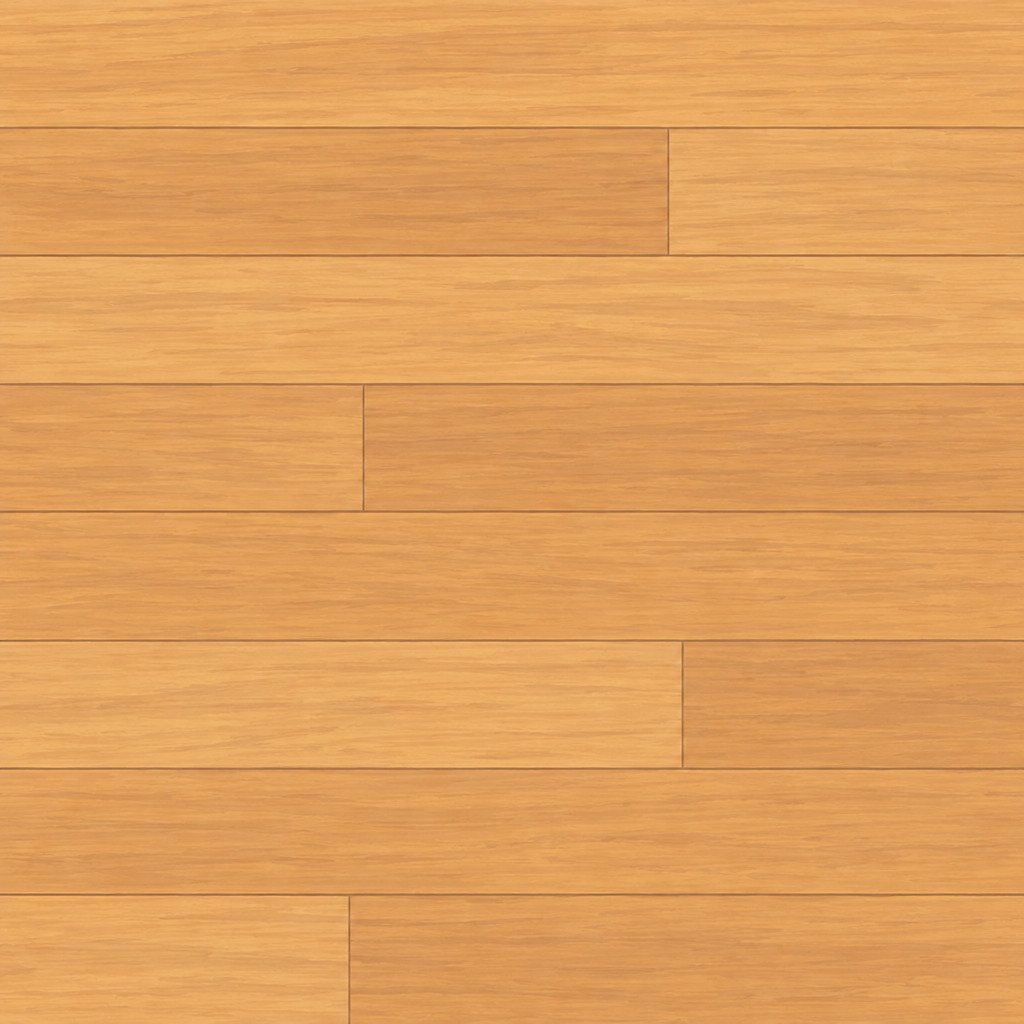
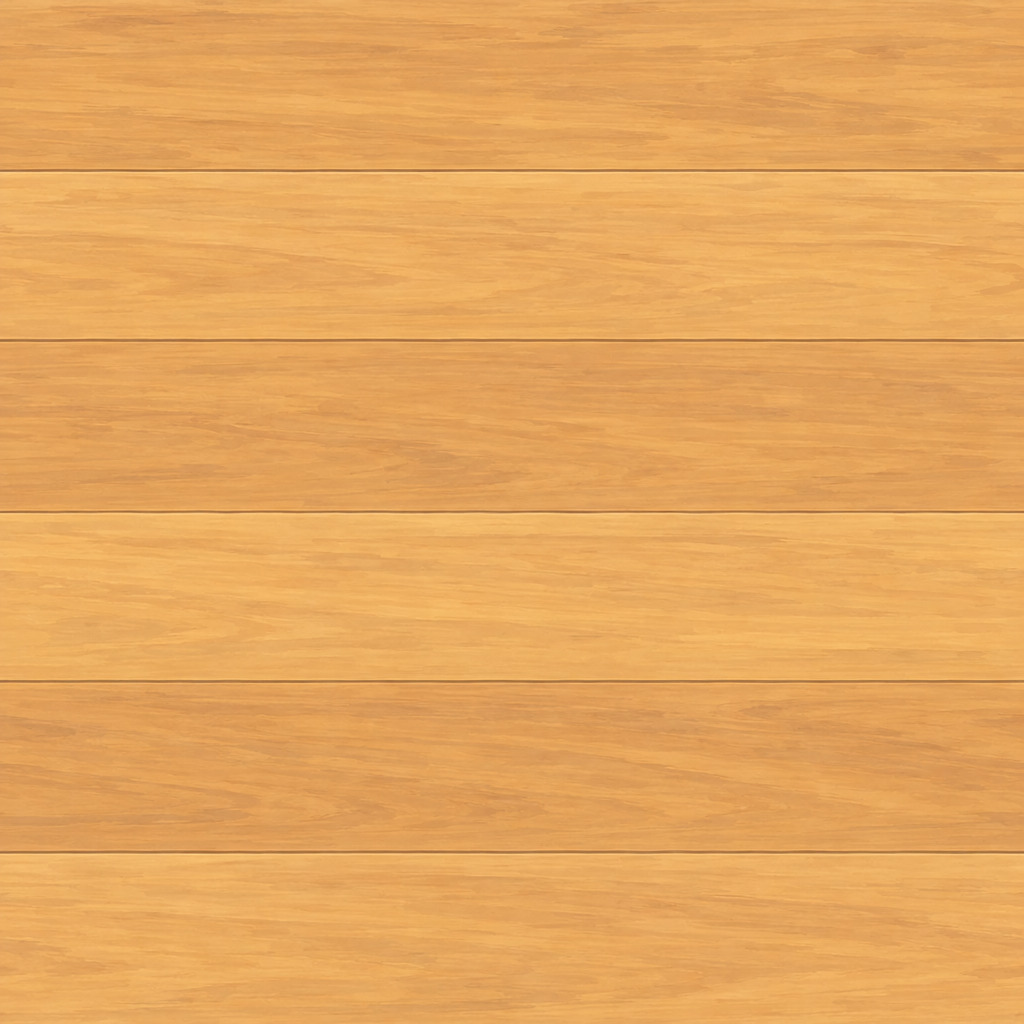
Crater Park editor: viaduct relief after the concept, calmer planks
Piers stand proud of the arcade on rounded stages with plinths and
ledges, arches carry stone rings, a cornice runs under every ramp edge,
and boulders gather round the pier feet and along the low walls, so the
supports read as built stone instead of lofted slabs. The ramp planks are
repainted calmer (faint seams, unbroken boards) and the plank and stone
paintings keep their own contrast.

diff --git a/games/yorimichi/world/regions/craterpark/v2/editor_supports.py b/games/yorimichi/world/regions/craterpark/v2/editor_supports.py
@@ -29,10 +29,22 @@ PIER_MIN, PIER_MAX = 4., 7.     # pier thickness along the piece
 BATTER = .05          # each pier side leans out this much per metre down to its foot
 BATTER_MAX = 6.       # metres: at most
 RING_MIN, RING_MAX = 1.6, 3.5   # stone kept above an arch's crown
-MIN_RISE = 2.5        # an opening lower than this is left solid
+MIN_RISE = 2.        # an opening lower than this is left solid
 OVER = 2.5            # metres kept clear above another piece running underneath
 TIER = 26.           # an opening taller than this gets a lower tier of arches (as an aqueduct's)
 TALL_BLOCK = 25.     # a stretch too short for a span but this tall gets one arch through it
+# the concept's relief (support-design-viaduct.jpg): piers standing proud of the faces, arch rings, a cornice under the
+# ramp, plinths and boulders at the feet
+ROCK = 'material_027'         # the volcano's restyled rock, for the boulders round the feet
+PROUD = .35           # the top of a pier stands this far out of the arcade's faces
+SETBACK = .3          # each ledge up a pier steps in this much (so its lower stages stand further out)
+CORNER = .8           # rounded pier corners (radius, m)
+PLINTH = .8           # a pier's plinth rises this far above the highest ground under it...
+PLINTH_OUT = .5       # ...and steps out this much round it
+CORNICE = 1.1         # the cornice band under the ramp: its height...
+OVERHANG = .45        # ...and how far it stands out of the faces (just under the ramp's edge)
+RING_DEPTH = 1.1      # the arch rings (archivolts): their depth round the opening...
+RING_PROUD = .2       # ...and how far they stand out of the faces
 
 
 class Ground:
@@ -139,6 +151,114 @@ def _outer_half(s):
         h, R = w['h'], max(w['R'], 1e-3)
         reach.append(R if h >= R else R * math.sin(math.acos(max(-1., 1 - h / R))))
     return s['w'] / 2 + max(reach) + s.get('deck', 0)
+
+
+def _rand(*key):
+    """Deterministic uniform [0, 1) from a position: the same park always gets the same stones."""
+    h = 2166136261
+    for k in key:
+        h = ((h ^ (int(round(k * 100)) & 0xffffffff)) * 16777619) & 0xffffffff
+    return ((h * 2654435761) & 0xffffffff) / 2 ** 32
+
+
+def _rings(b, material, rings, normals=None):
+    """Loft through closed cross-sections (each (k, 3)), with end caps: flat faces outward, or the given per-ring
+    vertex normals (each (k, 3)) on the sides for a smooth (rounded) surface."""
+    V, F, N = [], [], []
+    for i in range(len(rings) - 1):
+        A, B = rings[i], rings[i + 1]
+        mid = np.concatenate([A, B]).mean(0)
+        k = len(A)
+        for e in range(k):
+            q = np.array([A[e], A[(e + 1) % k], B[(e + 1) % k], B[e]])
+            n = np.cross(q[1] - q[0], q[2] - q[0]) + np.cross(q[2] - q[0], q[3] - q[0])
+            size = np.linalg.norm(n)
+            if size < 1e-6:
+                continue
+            n = n / size
+            if n @ (q.mean(0) - mid) < 0:
+                n = -n
+            o = len(V)
+            V.extend(q)
+            if normals is not None:
+                N.extend([normals[i][e], normals[i][(e + 1) % k], normals[i + 1][(e + 1) % k], normals[i + 1][e]])
+            else:
+                N.extend([n] * 4)
+            F.extend([(o, o + 1, o + 2), (o, o + 2, o + 3)])
+    for R, other in ((rings[0], rings[1]), (rings[-1], rings[-2])):
+        out = R.mean(0) - other.mean(0)
+        size = np.linalg.norm(out)
+        if size < 1e-9:
+            continue
+        o = len(V)
+        V.extend([R.mean(0)] + list(R))
+        N.extend([out / size] * (len(R) + 1))
+        F.extend([(o, o + 1 + e, o + 1 + (e + 1) % len(R)) for e in range(len(R))])
+    if F:
+        b.add(material, (np.array(V, 'f8'), np.array(F, 'i8'), np.array(N, 'f8')))
+
+
+def _rounded(c, fwd, acr, a, w, y, r=CORNER, seg=3):
+    """A rounded rectangle at height y, `a` long (half, along fwd) and `w` wide (half, along acr): points and their
+    outward horizontal normals."""
+    r = min(r, a * .9, w * .9)
+    pts, nrm = [], []
+    for su, sv, a0 in ((1, 1, 0.), (-1, 1, .5 * np.pi), (-1, -1, np.pi), (1, -1, 1.5 * np.pi)):
+        for k in range(seg + 1):
+            ang = a0 + .5 * np.pi * k / seg
+            du, dv = math.cos(ang), math.sin(ang)
+            u, v = su * (a - r) + r * du, sv * (w - r) + r * dv
+            pts.append((c[0] + u * fwd[0] + v * acr[0], y, c[1] + u * fwd[1] + v * acr[1]))
+            nrm.append((du * fwd[0] + dv * acr[0], 0., du * fwd[1] + dv * acr[1]))
+    return np.array(pts), np.array(nrm)
+
+
+def _lean(s, y):
+    """The arcade's half width at height y in section s: its faces lean out BATTER per metre below the ramp."""
+    return s.half + min(BATTER * max(s.top - y, 0.), BATTER_MAX)
+
+
+_ICO = None
+
+
+def _boulder(b, plan, ground, x, z, r, seed):
+    """A half-buried, faceted boulder of radius r at (x, z); none where a piece lies within reach above the ground."""
+    global _ICO
+    g = float(ground(x, z))
+    who, y = plan.heights(x, z)
+    if len(y) and (y < g + 2.5 * r + 1.).any():
+        return 0
+    if _ICO is None:
+        t = (1 + 5 ** .5) / 2
+        P = np.array([(-1, t, 0), (1, t, 0), (-1, -t, 0), (1, -t, 0), (0, -1, t), (0, 1, t), (0, -1, -t), (0, 1, -t),
+                      (t, 0, -1), (t, 0, 1), (-t, 0, -1), (-t, 0, 1)], 'f8')
+        F = [(0, 11, 5), (0, 5, 1), (0, 1, 7), (0, 7, 10), (0, 10, 11), (1, 5, 9), (5, 11, 4), (11, 10, 2), (10, 7, 6),
+             (7, 1, 8), (3, 9, 4), (3, 4, 2), (3, 2, 6), (3, 6, 8), (3, 8, 9), (4, 9, 5), (2, 4, 11), (6, 2, 10),
+             (8, 6, 7), (9, 8, 1)]
+        P = list(P / np.linalg.norm(P[0]))
+        mids, F2 = {}, []
+        for a, bb, c in F:                                   # one subdivision: 80 faces
+            m = []
+            for i, j in ((a, bb), (bb, c), (c, a)):
+                key = (min(i, j), max(i, j))
+                if key not in mids:
+                    q = P[i] + P[j]
+                    P.append(q / np.linalg.norm(q))
+                    mids[key] = len(P) - 1
+                m.append(mids[key])
+            F2 += [(a, m[0], m[2]), (bb, m[1], m[0]), (c, m[2], m[1]), (m[0], m[1], m[2])]
+        _ICO = np.array(P), np.array(F2)
+    P, F = _ICO
+    bump = np.array([1 + .32 * (_rand(seed, i, 7.) - .5) for i in range(len(P))])
+    yaw = _rand(seed, 3.) * 2 * np.pi
+    S = P * bump[:, None] * [r * (1 + .3 * _rand(seed, 5.)), r * .62, r]
+    S = S @ np.array([[math.cos(yaw), 0, -math.sin(yaw)], [0, 1, 0], [math.sin(yaw), 0, math.cos(yaw)]])
+    S += [x, g - .3 * r, z]
+    T = S[F]
+    n = np.cross(T[:, 1] - T[:, 0], T[:, 2] - T[:, 0])
+    n /= np.linalg.norm(n, axis=1, keepdims=True) + 1e-12
+    b.add(ROCK, (T.reshape(-1, 3), np.arange(len(F) * 3).reshape(-1, 3), np.repeat(n, 3, axis=0)))
+    return 1
 
 
 def _samples(stations):
@@ -299,14 +419,102 @@ def _loft(b, rows):
         b.add(STONE, (np.array(V, 'f8'), np.array(F, 'i8'), np.array(N, 'f8')))
 
 
+def _at(S, ts, t):
+    """The arcade's frame at distance t along a stretch: centre (x, z), across (unit), the section nearest."""
+    i = int(np.clip(np.searchsorted(ts, t) - 1, 0, len(ts) - 2))
+    f = float(np.clip((t - ts[i]) / max(ts[i + 1] - ts[i], 1e-9), 0., 1.))
+    c = S[i].c * (1 - f) + S[i + 1].c * f
+    u = S[i].across * (1 - f) + S[i + 1].across * f
+    return c, u / np.linalg.norm(u), S[i if f < .5 else i + 1]
+
+
+def _pier(b, plan, ground, S, ts, a, c):
+    """A pier over samples a..c: rounded stages standing proud of the faces, stepping in at a ledge or two on the
+    way up to the cornice, on a plinth, with boulders round its foot. Returns the boulders placed."""
+    mid = (ts[a] + ts[c]) / 2
+    centre, acr, s = _at(S, ts, mid)
+    fwd = np.array([acr[1], -acr[0]])
+    half_len = max((ts[c] - ts[a]) / 2, 1.5)
+    top = min(min(S[j].top_l, S[j].top_r) for j in range(a, c + 1)) - CORNICE + .1
+    corners = [centre + u * fwd + v * acr for u in (-half_len, half_len) for v in (-s.half, s.half)]
+    g_hi = max(float(ground(*q)) for q in corners)
+    foot = min(float(ground(*q)) for q in corners) - SINK - 1.
+    base = g_hi + PLINTH
+    if top - base < 1.5:
+        return 0
+    height = top - base
+    stages = 1 + (height > 14.) + (height > 32.)
+    out = PROUD + (stages - 1) * SETBACK
+
+    def block(y0, y1, extra):
+        rings, normals = [], []
+        for y in (y0, y1):
+            along = half_len + .5 * BATTER * max(top - y, 0.) + extra
+            pts, nrm = _rounded(centre, fwd, acr, along, _lean(s, y) + extra, y)
+            rings.append(pts)
+            normals.append(nrm)
+        _rings(b, STONE, rings, normals)
+
+    block(foot, base, out + PLINTH_OUT)
+    for k in range(stages):
+        y0 = base + height * k / stages
+        y1 = base + height * (k + 1) / stages
+        block(y0 - (.05 if k else 0.), y1, out - k * SETBACK)
+    placed = 0
+    n = 3 + min(6, int(height / 8))
+    for k in range(n):
+        ang = 2 * np.pi * (k + _rand(mid, k, 1.)) / n
+        reach = np.array([(half_len + out + PLINTH_OUT) * math.cos(ang), (s.half + out + PLINTH_OUT) * math.sin(ang)])
+        reach *= 1.05 + .35 * _rand(mid, k, 2.)
+        q = centre + reach[0] * fwd + reach[1] * acr
+        r = min(.9 + .9 * _rand(mid, k, 3.) + .025 * height, 3.2)
+        placed += _boulder(b, plan, ground, q[0], q[1], r, mid * 7 + k)
+    return placed
+
+
+def _archivolt(b, S, ts, f0, f1, arc):
+    """The stone ring round an arch: RING_DEPTH deep round the intrados, standing RING_PROUD out of both faces."""
+    t = np.asarray(ts[f0:f1 + 1], 'f8')
+    y = np.asarray(arc, 'f8')
+    if len(t) < 4:
+        return
+    dt, dy = np.gradient(t), np.gradient(y)
+    norm = np.hypot(dt, dy)
+    nt, ny = -dy / norm, dt / norm
+    rings = []
+    for k in range(len(t)):
+        c_in, u_in, s = _at(S, ts, t[k])
+        c_out, u_out, _ = _at(S, ts, t[k] + RING_DEPTH * nt[k])
+        y_out = y[k] + RING_DEPTH * ny[k]
+        w_in, w_out = _lean(s, y[k]) + RING_PROUD, _lean(s, y_out) + RING_PROUD
+        rings.append(np.array([(c_in[0] - w_in * u_in[0], y[k], c_in[1] - w_in * u_in[1]),
+                               (c_in[0] + w_in * u_in[0], y[k], c_in[1] + w_in * u_in[1]),
+                               (c_out[0] + w_out * u_out[0], y_out, c_out[1] + w_out * u_out[1]),
+                               (c_out[0] - w_out * u_out[0], y_out, c_out[1] - w_out * u_out[1])]))
+    _rings(b, STONE, rings)
+
+
+def _cornice(b, S):
+    """The cornice band along the top of a stretch: it stands OVERHANG out of the faces, a bevel below it."""
+    rings = []
+    for s in S:
+        (x, z), u = s.c, s.across
+        yb = s.top - CORNICE
+        wall, out = _lean(s, yb) - .05, s.half + OVERHANG
+        prof = [(-wall, yb), (-out, yb + .45 * CORNICE), (-out, s.top_l), (out, s.top_r), (out, yb + .45 * CORNICE),
+                (wall, yb)]
+        rings.append(np.array([(x + v * u[0], y, z + v * u[1]) for v, y in prof]))
+    _rings(b, STONE, rings)
+
+
 def arcade(b, plan, ground, piece, stations):
-    """The viaduct under one piece: (piers, arches, metres of arcade)."""
+    """The viaduct under one piece: (piers, arches, metres of arcade, boulders)."""
     got = _samples(stations)
     if got is None:
-        return 0, 0, 0.
+        return 0, 0, 0., 0
     t, x, z, h, half = got
     secs = [Section(plan, ground, piece, *a) for a in zip(x, z, h, half)]
-    piers = arches = 0
+    piers = arches = rocks = 0
     metres = 0.
     k, n = 0, len(secs)
     while k < n:                                              # stretches of consecutive good sections
@@ -330,9 +538,11 @@ def arcade(b, plan, ground, piece, stations):
                 if arc is not None:
                     bots[(f0, f1)] = arc
                     arches += 1
+                    _archivolt(b, S, ts, f0, f1, arc)
                     for band, lower in _tiers(S, ts, f0, f1, arc):
                         _loft(b, [(S[j], lower[j - f0], band[j - f0], band[j - f0])
                                   for j in range(f0, f1 + 1)])
+                        _archivolt(b, S, ts, f0, f1, lower)
                         arches += 1
             solid = np.ones(len(S), bool)
             for f0, f1 in bots:
@@ -349,29 +559,43 @@ def arcade(b, plan, ground, piece, stations):
                 for j in range(f0, f1 + 1):
                     rows.append((S[j], arc[j - f0]))
                 i = f1
-            piers += sum(1 for a, c in P if c - a >= 1)
             _loft(b, rows)
+            _cornice(b, S)
+            if bots:
+                for a, c in P:
+                    if c - a >= 1 and not any(S[j].blocked for j in range(a, c + 1)):
+                        rocks += _pier(b, plan, ground, S, ts, a, c)
+                        piers += 1
+            # boulders along the foot of the solid walls
+            for j in range(0, len(S), 6):
+                if solid[j] and not S[j].blocked and S[j].top - S[j].g_hi > 1.:
+                    for side in (-1., 1.):
+                        if _rand(ts[j], side, 4.) < .55:
+                            q = S[j].c + side * (_lean(S[j], S[j].g_lo) + .3 + _rand(ts[j], side, 5.)) * S[j].across
+                            rocks += _boulder(b, plan, ground, q[0], q[1], .7 + .8 * _rand(ts[j], side, 6.),
+                                              ts[j] * 3 + side)
             metres += ts[-1] - ts[0]
         k = e + 1
-    return piers, arches, metres
+    return piers, arches, metres, rocks
 
 
 def build(pieces, heights, grid):
     """The supports for the kept editor pieces (bridge Pieces), as dsl Mesh parts, and a summary."""
     ground = Ground(heights, grid)
     plan = Plan(pieces)
-    out, summary = [], {'piers': 0, 'arches': 0, 'metres': 0., 'pieces': {}}
+    out, summary = [], {'piers': 0, 'arches': 0, 'metres': 0., 'boulders': 0, 'pieces': {}}
     for k, piece in enumerate(pieces):
         meta = piece.metadata
         if meta['type'] in ('bowl', 'deck', 'rail') or not meta.get('stations'):
             continue
         b = Builder()
-        piers, arches, metres = arcade(b, plan, ground, k, meta['stations'])
+        piers, arches, metres, rocks = arcade(b, plan, ground, k, meta['stations'])
         if not metres:
             continue
         out += b.meshes(f"{meta['id']}_supports")
         summary['piers'] += piers
         summary['arches'] += arches
+        summary['boulders'] += rocks
         summary['metres'] += round(metres, 1)
         summary['pieces'][meta['id']] = 'viaduct'
     summary['metres'] = round(summary['metres'], 1)

diff --git a/games/yorimichi/tools/craterpark_textures.py b/games/yorimichi/tools/craterpark_textures.py
@@ -165,11 +165,12 @@ WORLD_ALIGNED = {
 # nothing: a material whose texture is `texture` gets the painting on its own UVs (the editor ramps' boards, laid along
 # each piece: v2/editor_generate.piece_uv)
 UV_PAINTINGS = {
-    'ramp_planks': ('textures/ramp_planks.png', 'ramps', 'edges', 'a warm honey-tan wooden skate ramp surface as in '
-                    'Image 1: long smooth sanded boards laid side by side, every board running straight across the frame '
-                    'from left to right, eight boards stacked from top to bottom, thin soft darker seams between them and a '
-                    'few staggered butt joints, each board a slightly different warm tone, very fine soft straight grain; '
-                    'no knots, no nails, no screws, no swirls', WOOD),
+    'ramp_planks': ('textures/ramp_planks.png', 'ramps', 'edges', 'the smooth wooden riding surface of a big skate ramp '
+                    'exactly as in Image 1: soft warm honey and pale golden wood, six long boards stacked from top to bottom, '
+                    'each running unbroken across the whole frame from left to right with no butt joints, the seams between '
+                    'them only faint thin lines a little darker than the wood, gentle broad painterly variation in tone '
+                    'from board to board, barely visible soft straight grain; calm and smooth, no knots, no nails, no '
+                    'screws, no stripes of strong contrast', WOOD),
 }
 # slug: (texture, plan, concept, size, description) of the decals painted onto one piece's own plan: the plan (a top-down
 # render of the piece, v2/editor_generate.decal_frame) is Image 1 and the approved concept Image 2; the painting is laid
@@ -197,6 +198,8 @@ REPAINTED = {'flagstone': ('masonite', (160, 122, 86))}
 DETAIL = .14
 DETAIL_MIN = 8.
 DETAIL_GAIN = 2.5
+# paintings that already carry the concepts' calm surface keep their own variation (at most this gain)
+CALM = {'ramp_planks': 1., 'masonry': 1.2}
 
 
 def sha(data):
@@ -413,13 +416,13 @@ def to_mean(rgb, target):
     return srgb(a * want / np.maximum(a.reshape(-1, 3).mean(0), 1e-4))
 
 
-def detail(rgb, target):
+def detail(rgb, target, cap=DETAIL_GAIN):
     """rgb (sRGB 0-1) brought to the palette mean `target` with its variation stretched (DETAIL). Returns (rgb, gain)."""
     import numpy as np
     a = to_mean(rgb, target)
     luma = a @ np.array([.2126, .7152, .0722])
     want = max(DETAIL_MIN / 255, DETAIL * float(luma.mean()))
-    gain = float(np.clip(want / max(float(luma.std()), 1e-4), 1., DETAIL_GAIN))
+    gain = float(np.clip(want / max(float(luma.std()), 1e-4), 1., cap))
     mean = a.reshape(-1, 3).mean(0)
     return to_mean(np.clip(mean + (a - mean) * gain, 0, 1), target), gain
 
@@ -468,7 +471,7 @@ def finish():
         src = PAINTED / f'{slug}.jpg'
         if not src.exists():
             print('not painted yet:', slug); continue
-        a, gain = detail(srgb(tile(lin(load(src, (1024, 1024))), 'xy', how)), mean)
+        a, gain = detail(srgb(tile(lin(load(src, (1024, 1024))), 'xy', how)), mean, CALM.get(slug, DETAIL_GAIN))
         report['textures'][texture] = {**save(slug, a), 'slug': slug,
                                        'how': f'painted, wraps xy ({how}), mean {list(mean)}, detail x{gain:.2f}'}
     for material, (slug, metres, mean) in WORLD_ALIGNED.items():
@@ -476,7 +479,7 @@ def finish():
         if not src.exists():
             print('not painted yet:', slug, 'for', material); continue
         how = WORLD_PAINTINGS[slug][1] if slug in WORLD_PAINTINGS else 'blend'
-        a, gain = detail(srgb(tile(lin(load(src, (1024, 1024))), 'xy', how)), mean)
+        a, gain = detail(srgb(tile(lin(load(src, (1024, 1024))), 'xy', how)), mean, CALM.get(slug, DETAIL_GAIN))
         report['world_aligned'][material] = {**save(material, a), 'slug': slug, 'metres': metres,
                                              'how': f'world-aligned {rel(src)}, wraps xy ({how}), mean {list(mean)}, '
                                                     f'detail x{gain:.2f}; Tint white'}

diff --git a/games/yorimichi/tests/test_craterpark_editor_supports.py b/games/yorimichi/tests/test_craterpark_editor_supports.py
@@ -32,22 +32,27 @@ def vertices(parts):
 def test_high_piece_rides_on_an_arcade_flush_under_it():
     parts, summary = es.build([sheet('p1', 30., length=120.)], FLAT, GRID)
     assert summary['pieces'] == {'p1': 'viaduct'} and summary['piers'] >= 3 and summary['arches'] >= 2
-    assert all((p.material == dsl.MATERIAL[es.STONE]).all() and p.role[0] == dsl.ROLE[dsl.SIDE] for p in parts)
+    stone = {dsl.MATERIAL[es.STONE], dsl.MATERIAL[es.ROCK]}
+    assert all(set(p.material.tolist()) <= stone and p.role[0] == dsl.ROLE[dsl.SIDE] for p in parts)
     V = vertices(parts)
     assert abs(V[:, 1].max() - (30. + es.EMBED)) < 1e-6, 'the stone meets the ramp in one line'
-    assert V[:, 1].min() >= -es.SINK - 1e-6
+    assert V[:, 1].min() >= -es.SINK - 5.
     assert np.isfinite(V).all() and np.isfinite(np.concatenate([p.N for p in parts])).all()
 
 
-def test_few_thick_piers_not_a_forest():
+def test_few_thick_piers_with_relief_not_a_forest():
     parts, summary = es.build([sheet('p1', 30., length=120.)], FLAT, GRID)
-    assert summary['piers'] <= 120. / es.SPAN_MIN
-    assert sum(len(p.F) for p in parts) < 3000
+    assert 2 <= summary['piers'] <= 120. / es.SPAN_MIN
+    assert summary['boulders'] >= summary['piers'] * 2, 'boulders round every pier foot'
+    assert sum(len(p.F) for p in parts) < 10000
+    V = vertices(parts)
+    assert np.abs(V[:, 2]).max() > 8. + es.INSET + es.PROUD - .1, 'piers stand proud of the faces'
+
 
 
 def test_low_run_rests_on_a_solid_wall():
     parts, summary = es.build([sheet('p1', 3.)], FLAT, GRID)
-    assert summary['arches'] == 0 and summary['piers'] >= 1
+    assert summary['arches'] == 0 and summary['piers'] == 0 and summary['metres'] > 50.
     assert vertices(parts)[:, 1].max() <= 3. + es.EMBED + 1e-6
 
 
